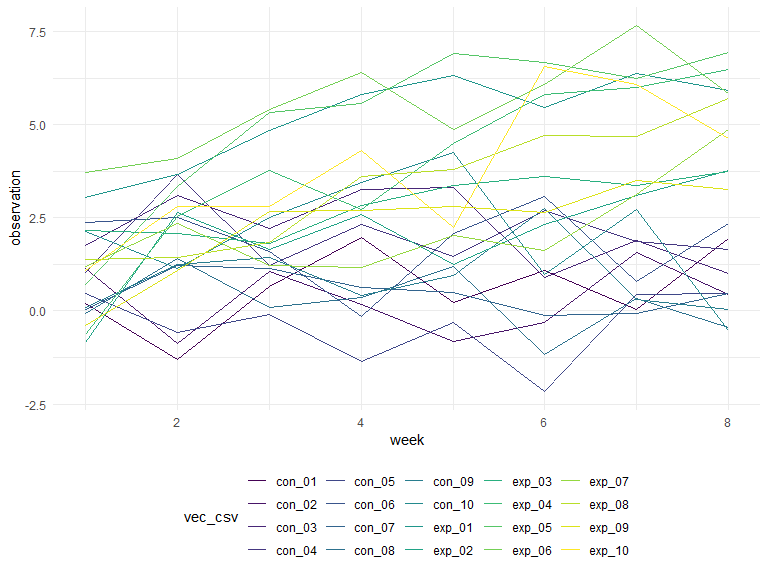
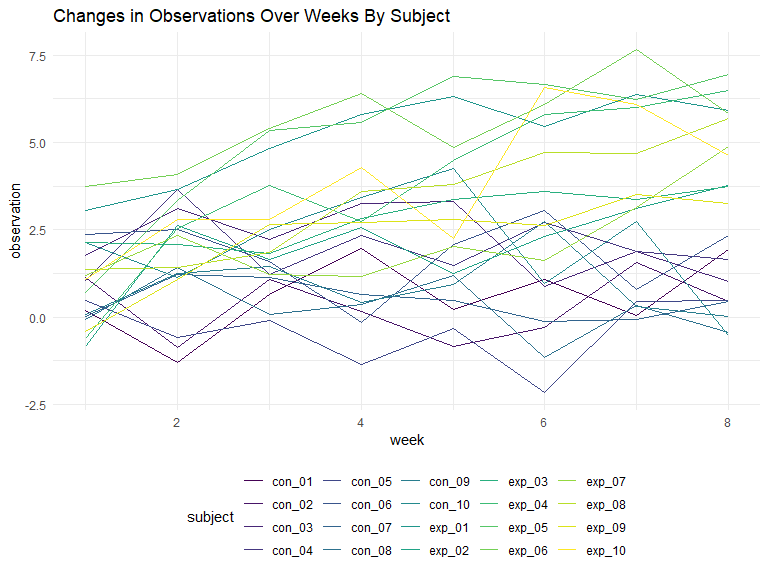
problem 3 code. still need graphs

diff --git a/hw_05_code.md b/hw_05_code.md
@@ -44,10 +44,6 @@ iris_full=map(iris_with_missing,fill_in)
 ## Problem 2
 
 ``` r
-vec_csv = str_c("./data/",list.files("./data"))
-```
-
-``` r
 study_tidy = function(arm) {
   
   x = read_csv(arm)
@@ -66,26 +62,93 @@ study_tidy = function(arm) {
 ``` r
 study = 
   tibble(
-    vec_csv = str_c("./data/",list.files("./data"))
+    subject = str_c("./data/",list.files("./data"))
   ) %>% 
   mutate(
-    output = map(vec_csv, study_tidy),
-    vec_csv = str_remove(vec_csv,"./data/"),
-    vec_csv = str_remove(vec_csv,".csv")
+    output = map(subject, study_tidy),
+    subject = str_remove(subject,"./data/"),
+    subject = str_remove(subject,".csv"),
   ) %>% 
   unnest(output) %>% 
-  #separate(vec_csv,c("arm","subject"),sep = "_",remove = TRUE) %>% 
+  #separate(subject,c("group","subject")) %>% 
   mutate(
     week = str_remove(week,"week_"),
-    week=as.numeric(week)
+    week = as.numeric(week)
   )
 ```
 
 ``` r
-study %>% 
-  #group_by(arm,subject) %>% 
-  ggplot(aes(x=week,y=observation,color=vec_csv))+
-  geom_line()
+study %>%  
+  ggplot(aes(x=week,y=observation,color=subject))+
+  geom_line()+
+  labs(
+    title = "Changes in Observations Over Weeks By Subject")
 ```
 
 <img src="hw_05_code_files/figure-gfm/unnamed-chunk-1-1.png" width="90%" />
+
+This plot makes it hard to separate the groups to see the trends so I
+faceted the plot into the two arms.
+
+``` r
+study2=study %>% 
+  mutate(
+   arm=subject,
+  ) %>% 
+  separate(arm,"arm",sep = "_")
+  
+study2 %>%  
+  ggplot(aes(x=week,y=observation,color=subject))+
+  geom_line()+
+  facet_grid(~arm)+
+  labs(
+    title = "Changes in Observations Over Weeks By Subject and Group")
+```
+
+<img src="hw_05_code_files/figure-gfm/unnamed-chunk-2-1.png" width="90%" />
+
+This chart lets us see that the experimental arm’s observational data is
+increasing in value over the weeks whereas the values are mostly
+constant in the control arm. We do not know what the data describes so
+we cannot determine if this is a good change or not.
+
+## Problem 3
+
+``` r
+set.seed(1)
+
+sim_regression = function(n=30, beta0 = 2, beta1 = 0) {
+  
+  sim_data = tibble(
+    x = rnorm(n, mean = 1, sd = 1),
+    y = beta0 + beta1 * x + rnorm(n, 0, 50)
+  )
+  
+  ls_fit = lm(y ~ x, data = sim_data)
+  broom::tidy(ls_fit)
+  #tibble(
+  #  beta0_hat = coef(ls_fit)[1],
+  #  beta1_hat = coef(ls_fit)[2]
+  #)
+}
+```
+
+``` r
+output = 
+  rerun(1, sim_regression(beta1 = 1)) %>% 
+  bind_rows() 
+#output %>%   ggplot(aes(x = beta0_hat)) + geom_density()
+```
+
+``` r
+sim_results = 
+  tibble(
+    beta1_val = c(0, 1, 2, 3,4,5,6)
+  ) %>% 
+  mutate(
+    output_list = map(.x = beta1_val, ~ rerun(10000, sim_regression(beta1 = .x))),
+    output_df = map(output_list, bind_rows)
+  ) %>% 
+  select(-output_list) %>% 
+  unnest(output_df)
+```
